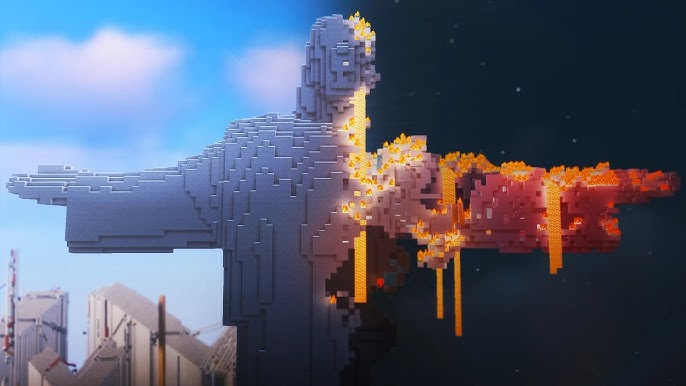
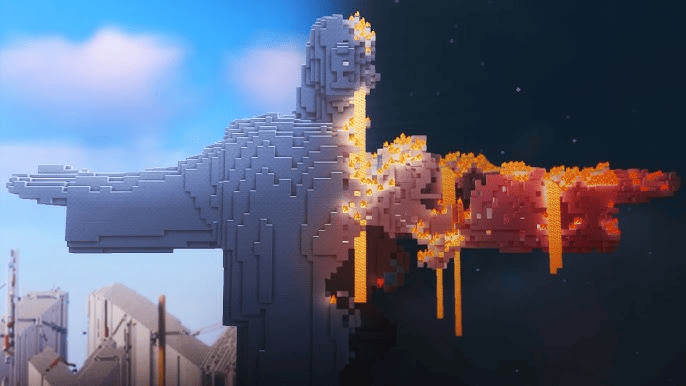
Minified imgs to make page load faster

diff --git a/readme.md b/readme.md
@@ -48,15 +48,15 @@ No Database or server is required.
   Explains what Ankropix is and its purpose.
 
 - `gallery.html`  
-  Gallery with an sllider function.
+  Gallery with an slider function.
 
 - `contact.html`  
   Simple contact form (name, email, message).
 
-- `styles.css`  
+- `css/styles.css`  
   Handles layout, colors, fonts, buttons, and sections.
 
-- `main.js`  
+- `js/main.js`  
   JavaScript for slider functions.
 
 ## Features
@@ -65,7 +65,7 @@ No Database or server is required.
 - Simple and clean.
 - Reusable header and footer.
 - Basic typography and color scheme.
-- Intecractive image gallery.
+- Interactive image gallery.
 
 ## Future Improvements
 
